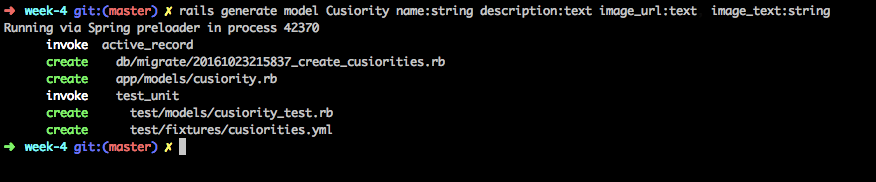
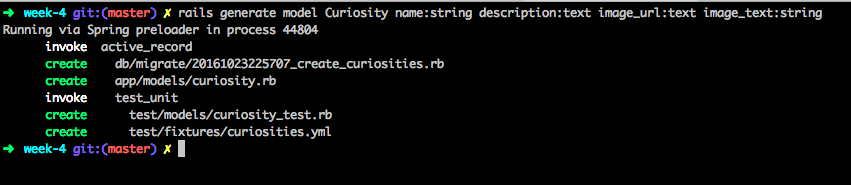
Update curiosity name typo

Changed region(s): [[0.0, 0.0, 1.0, 0.8516]]

diff --git a/db/schema.rb b/db/schema.rb
@@ -11,7 +11,7 @@
 #
 # It's strongly recommended that you check this file into your version control system.
 
-ActiveRecord::Schema.define(version: 20161023215837) do
+ActiveRecord::Schema.define(version: 20161023225707) do
 
   create_table "cusiorities", force: :cascade do |t|
     t.string   "name"

diff --git a/db/migrate/20161023225707_create_curiosities.rb b/db/migrate/20161023225707_create_curiosities.rb
@@ -1,6 +1,6 @@
-class CreateCusiorities < ActiveRecord::Migration
+class CreateCuriosities < ActiveRecord::Migration
   def change
-    create_table :cusiorities do |t|
+    create_table :curiosities do |t|
       t.string :name
       t.text :description
       t.text :image_url

diff --git a/test/models/curiosity_test.rb b/test/models/curiosity_test.rb
@@ -1,6 +1,6 @@
 require 'test_helper'
 
-class CusiorityTest < ActiveSupport::TestCase
+class CuriosityTest < ActiveSupport::TestCase
   # test "the truth" do
   #   assert true
   # end

diff --git a/README.md b/README.md
@@ -51,7 +51,7 @@ Cela va créer automatiquement 4 fichiers différents:
 
 ##### La migration
 
-En ouvrant le fichier ````/db/migrate/20161023215837_create_cusiorities.rb```` (les chiffres peuvent changer en fonction de la date à laquelle vous l'avez faite) vous pouvez voir comment est composée une migration qui crée une table.
+En ouvrant le fichier ````/db/migrate/20161023225707_create_cusiorities.rb```` (les chiffres peuvent changer en fonction de la date à laquelle vous l'avez faite) vous pouvez voir comment est composée une migration qui crée une table.
 
 ![Page de base](/images/readme/migration.png)
 
@@ -84,13 +84,13 @@ Ouvrez le fichier ````/db/schema.rb````. Vous pouvez constater que vous retrouve
 > Astuce :
 > Une migration a un identifiant. Cela permet à votre application de savoir quelle est la dernière migration qui a été traitée, pour éviter de la rejouer. Cet identifiant de migration est visible dans le nom du fichier de la migration.
 
-Vous pouvez voir à quelle migration vous en êtes dans le fichier ````/db/schema.rb```` avec ````version: 20160618174815````.
+Vous pouvez voir à quelle migration vous en êtes dans le fichier ````/db/schema.rb```` avec ````version: 20161023225707````.
 
 ##### ActiveRecord et les modèles
 
 ActiveRecord est la partie de Ruby On Rails qui permet de manipuler les informations stockées en base de données avec des classes Ruby (qu'on appelle les modèles).
 
-Cela permet de représenter les attributs d'une table de la base de données dans un modèle, pour avoir accès à chacune des lignes de cette table (comme une ligne dans Excel !) et pouvoir les manipuler.
+Cela permet de représenter les attributs d'une table de la base de données dans un modèle, pour avoir accès à chacune des lignes de cette table (comme une ligne dans Excel !) et pouvoir les manipuler dans votre application.
 
 Ouvrez votre terminal puis ouvrez une console Ruby On Rails : ````rails console```` (ou ````rails c````)
 
